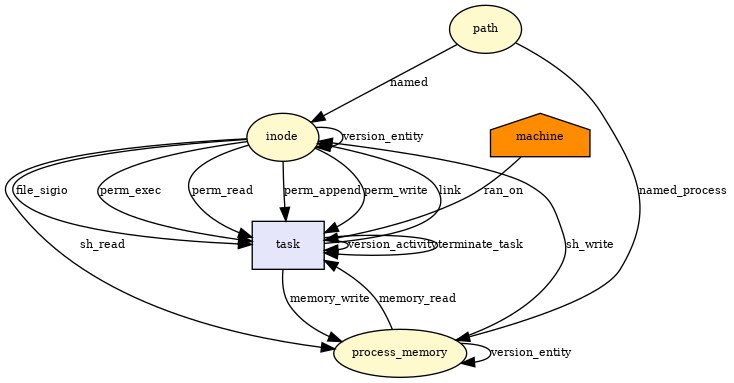
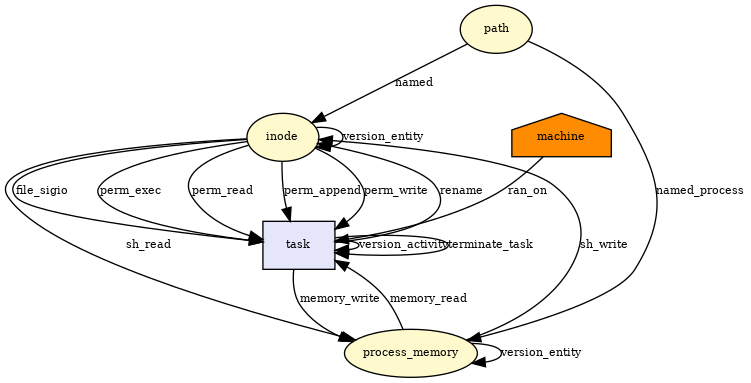
add new relation RL_RENAME

diff --git a/include/uapi/linux/provenance_types.h b/include/uapi/linux/provenance_types.h
@@ -83,21 +83,22 @@
 #define RL_SND_MSG                              (RL_GENERATED | (0x0000000000000001ULL << 13))
 #define RL_SND_MSG_Q                            (RL_GENERATED | (0x0000000000000001ULL << 14))
 #define RL_LINK                                 (RL_GENERATED | (0x0000000000000001ULL << 15))
-#define RL_UNLINK                               (RL_GENERATED | (0x0000000000000001ULL << 16))
-#define RL_SYMLINK                              (RL_GENERATED | (0x0000000000000001ULL << 17))
-#define RL_SETATTR                              (RL_GENERATED | (0x0000000000000001ULL << 18))
-#define RL_SETXATTR                             (RL_GENERATED | (0x0000000000000001ULL << 19))
-#define RL_RMVXATTR                             (RL_GENERATED | (0x0000000000000001ULL << 20))
-#define RL_SHMDT                                (RL_GENERATED | (0x0000000000000001ULL << 21))
-#define RL_SETUID                               (RL_GENERATED | (0x0000000000000001ULL << 22))
-#define RL_SETGID                               (RL_GENERATED | (0x0000000000000001ULL << 23))
-#define RL_SH_ATTACH_WRITE                      (RL_GENERATED | (0x0000000000000001ULL << 24))
-#define RL_SH_CREATE_READ                       (RL_GENERATED | (0x0000000000000001ULL << 25))
-#define RL_SH_CREATE_WRITE                      (RL_GENERATED | (0x0000000000000001ULL << 26))
-#define RL_FILE_LOCK                            (RL_GENERATED | (0x0000000000000001ULL << 27))
-#define RL_MUNMAP                               (RL_GENERATED | (0x0000000000000001ULL << 28))
-#define RL_SPLICE_OUT                           (RL_GENERATED | (0x0000000000000001ULL << 29))
-#define RL_EXEC_TASK                            (RL_GENERATED | (0x0000000000000001ULL << 30))
+#define RL_RENAME                               (RL_GENERATED | (0x0000000000000001ULL << 16))
+#define RL_UNLINK                               (RL_GENERATED | (0x0000000000000001ULL << 17))
+#define RL_SYMLINK                              (RL_GENERATED | (0x0000000000000001ULL << 18))
+#define RL_SETATTR                              (RL_GENERATED | (0x0000000000000001ULL << 19))
+#define RL_SETXATTR                             (RL_GENERATED | (0x0000000000000001ULL << 20))
+#define RL_RMVXATTR                             (RL_GENERATED | (0x0000000000000001ULL << 21))
+#define RL_SHMDT                                (RL_GENERATED | (0x0000000000000001ULL << 22))
+#define RL_SETUID                               (RL_GENERATED | (0x0000000000000001ULL << 23))
+#define RL_SETGID                               (RL_GENERATED | (0x0000000000000001ULL << 24))
+#define RL_SH_ATTACH_WRITE                      (RL_GENERATED | (0x0000000000000001ULL << 25))
+#define RL_SH_CREATE_READ                       (RL_GENERATED | (0x0000000000000001ULL << 26))
+#define RL_SH_CREATE_WRITE                      (RL_GENERATED | (0x0000000000000001ULL << 27))
+#define RL_FILE_LOCK                            (RL_GENERATED | (0x0000000000000001ULL << 28))
+#define RL_MUNMAP                               (RL_GENERATED | (0x0000000000000001ULL << 29))
+#define RL_SPLICE_OUT                           (RL_GENERATED | (0x0000000000000001ULL << 30))
+#define RL_EXEC_TASK                            (RL_GENERATED | (0x0000000000000001ULL << 31))
 /* no more than 51!!!! */
 
 /* USED SUBTYPES */

diff --git a/security/provenance/type.c b/security/provenance/type.c
@@ -42,6 +42,7 @@ static const char RL_STR_VERSION[] = "version_entity";                          
 static const char RL_STR_MUNMAP[] = "munmap";                                                           // munmap operation
 static const char RL_STR_SHMDT[] = "shmdt";                                                             // shmdt operation
 static const char RL_STR_LINK[] = "link";                                                               // create a link
+static const char RL_STR_RENAME[] = "rename";                                                           // rename inode
 static const char RL_STR_UNLINK[] = "unlink";                                                           // delete a link
 static const char RL_STR_SYMLINK[] = "symlink";                                                         // create a symlink
 static const char RL_STR_SPLICE_IN[] = "splice_in";                                                     // pipe splice operation from in file
@@ -194,6 +195,8 @@ const char *relation_str(uint64_t type)
 		return RL_STR_SHMDT;
 	case RL_LINK:
 		return RL_STR_LINK;
+	case RL_RENAME:
+		return RL_STR_RENAME;
 	case RL_UNLINK:
 		return RL_STR_UNLINK;
 	case RL_SYMLINK:
@@ -366,6 +369,7 @@ uint64_t relation_id(const char *str)
 	MATCH_AND_RETURN(str, RL_STR_MUNMAP, RL_MUNMAP);
 	MATCH_AND_RETURN(str, RL_STR_SHMDT, RL_SHMDT);
 	MATCH_AND_RETURN(str, RL_STR_LINK, RL_LINK);
+	MATCH_AND_RETURN(str, RL_STR_RENAME, RL_RENAME);
 	MATCH_AND_RETURN(str, RL_STR_UNLINK, RL_UNLINK);
 	MATCH_AND_RETURN(str, RL_STR_SYMLINK, RL_SYMLINK);
 	MATCH_AND_RETURN(str, RL_STR_SPLICE_IN, RL_SPLICE_IN);

diff --git a/security/provenance/hooks.c b/security/provenance/hooks.c
@@ -622,7 +622,24 @@ static int provenance_inode_rename(struct inode *old_dir,
 				   struct inode *new_dir,
 				   struct dentry *new_dentry)
 {
-	return provenance_inode_link(old_dentry, new_dir, new_dentry);
+	struct provenance *cprov = get_cred_provenance();
+	struct provenance *tprov = get_task_provenance(true);
+	struct provenance *iprov = NULL;
+	unsigned long irqflags;
+	int rc;
+
+	iprov = get_dentry_provenance(old_dentry, true);
+	if (!iprov)
+		return -ENOMEM;
+
+	spin_lock_irqsave_nested(prov_lock(cprov), irqflags, PROVENANCE_LOCK_PROC);
+	spin_lock_nested(prov_lock(iprov), PROVENANCE_LOCK_INODE);
+	rc = generates(RL_RENAME, cprov, tprov, iprov, NULL, 0);
+	clear_name_recorded(prov_elt(iprov));
+	spin_unlock(prov_lock(iprov));
+	spin_unlock_irqrestore(prov_lock(cprov), irqflags);
+	record_inode_name_from_dentry(new_dentry, iprov, true);
+	return rc;
 }
 
 /*!

diff --git a/include/uapi/linux/provenance.h b/include/uapi/linux/provenance.h
@@ -31,7 +31,7 @@
 	"."xstr (CAMFLOW_VERSION_MINOR)					\
 	"."xstr (CAMFLOW_VERSION_PATCH)					\
 
-#define CAMFLOW_COMMIT "e84608debb699332c381b37de7c3f65ef0500b6e"
+#define CAMFLOW_COMMIT "24181a46ad19a8bd8e6b989e2af79c7e3e6c2b37"
 
 #define PROVENANCE_HASH                 "sha256"
 

diff --git a/docs/RELATIONS.md b/docs/RELATIONS.md
@@ -32,6 +32,7 @@ RL_VERSION|version_entity|connect version of entity object|
 RL_MUNMAP|munmap|munmap operation|
 RL_SHMDT|shmdt|shmdt operation|
 RL_LINK|link|create a link|
+RL_RENAME|rename|rename inode|
 RL_UNLINK|unlink|delete a link|
 RL_SYMLINK|symlink|create a symlink|
 RL_SPLICE_IN|splice_in|pipe splice operation from in file|

diff --git a/CHANGES.md b/CHANGES.md
@@ -45,6 +45,7 @@
 
 ### v0.5.4
 ```
+- Add RL_RENAME relation.
 - Add RL_CONNECT_UNIX_STREAM relation.
 - Add RL_LOAD_UNDEFINED relation.
 - Ensure sk_alloc_security does not generate provenance.
